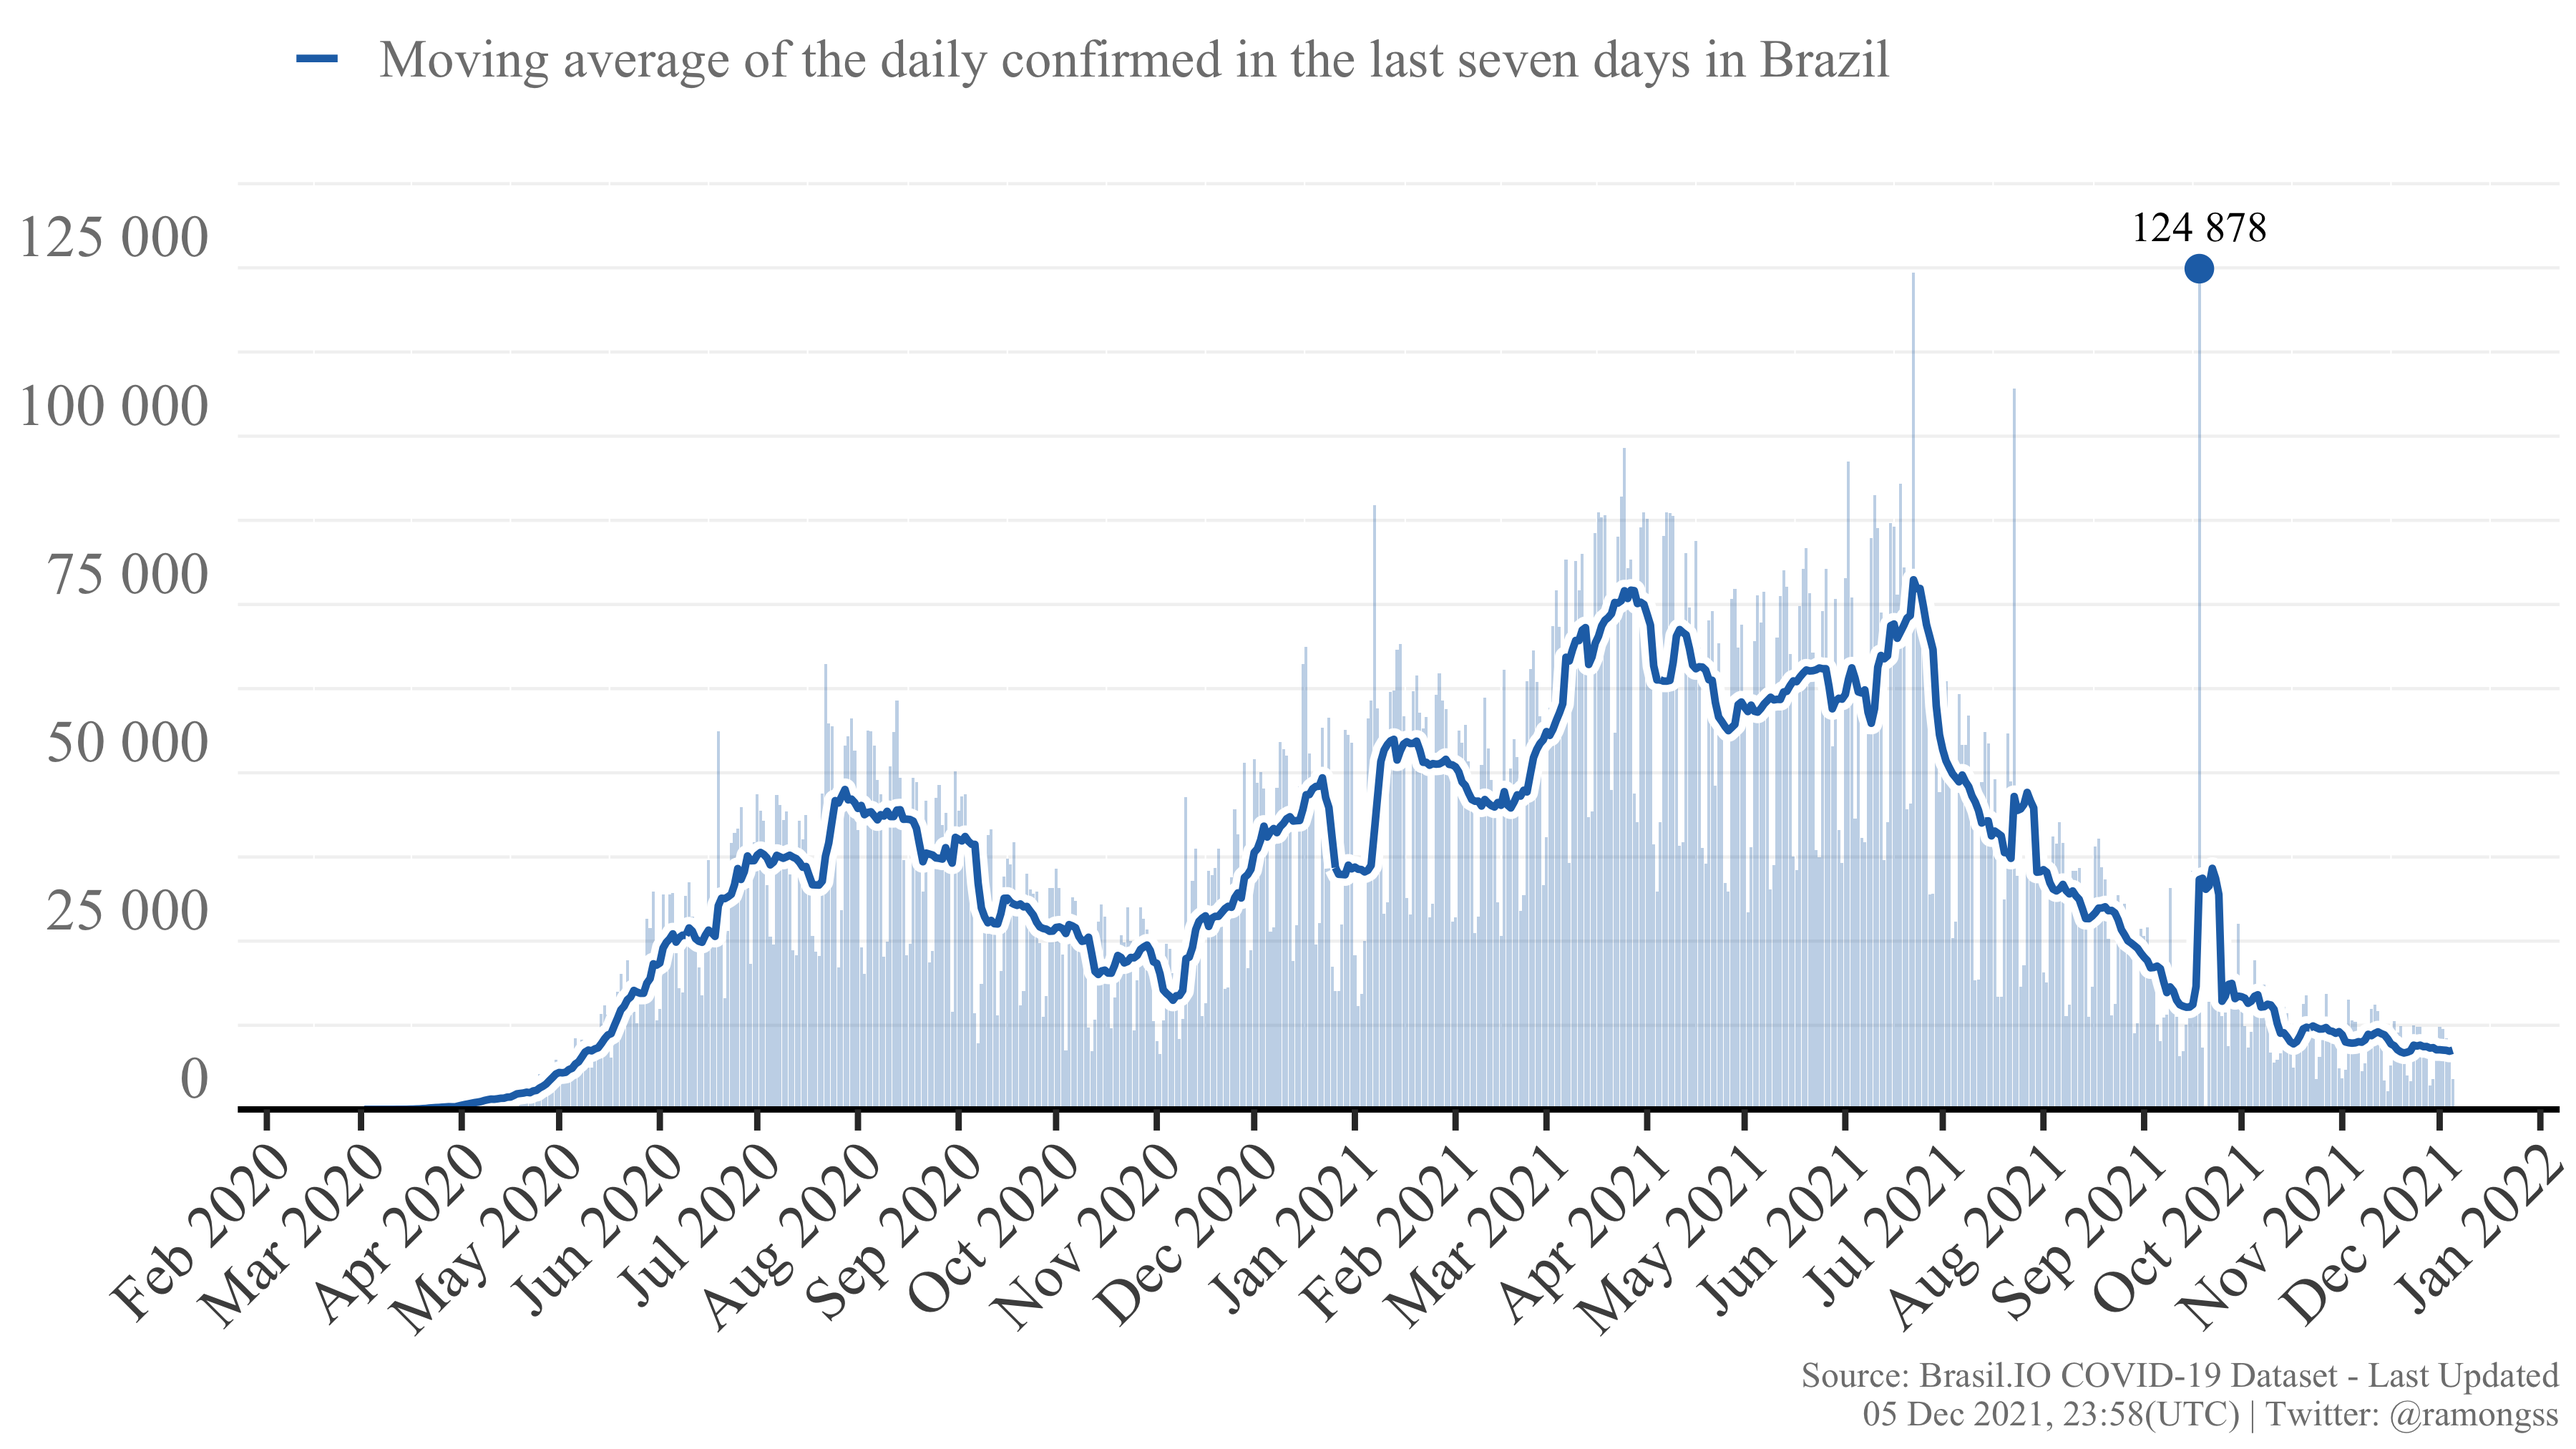
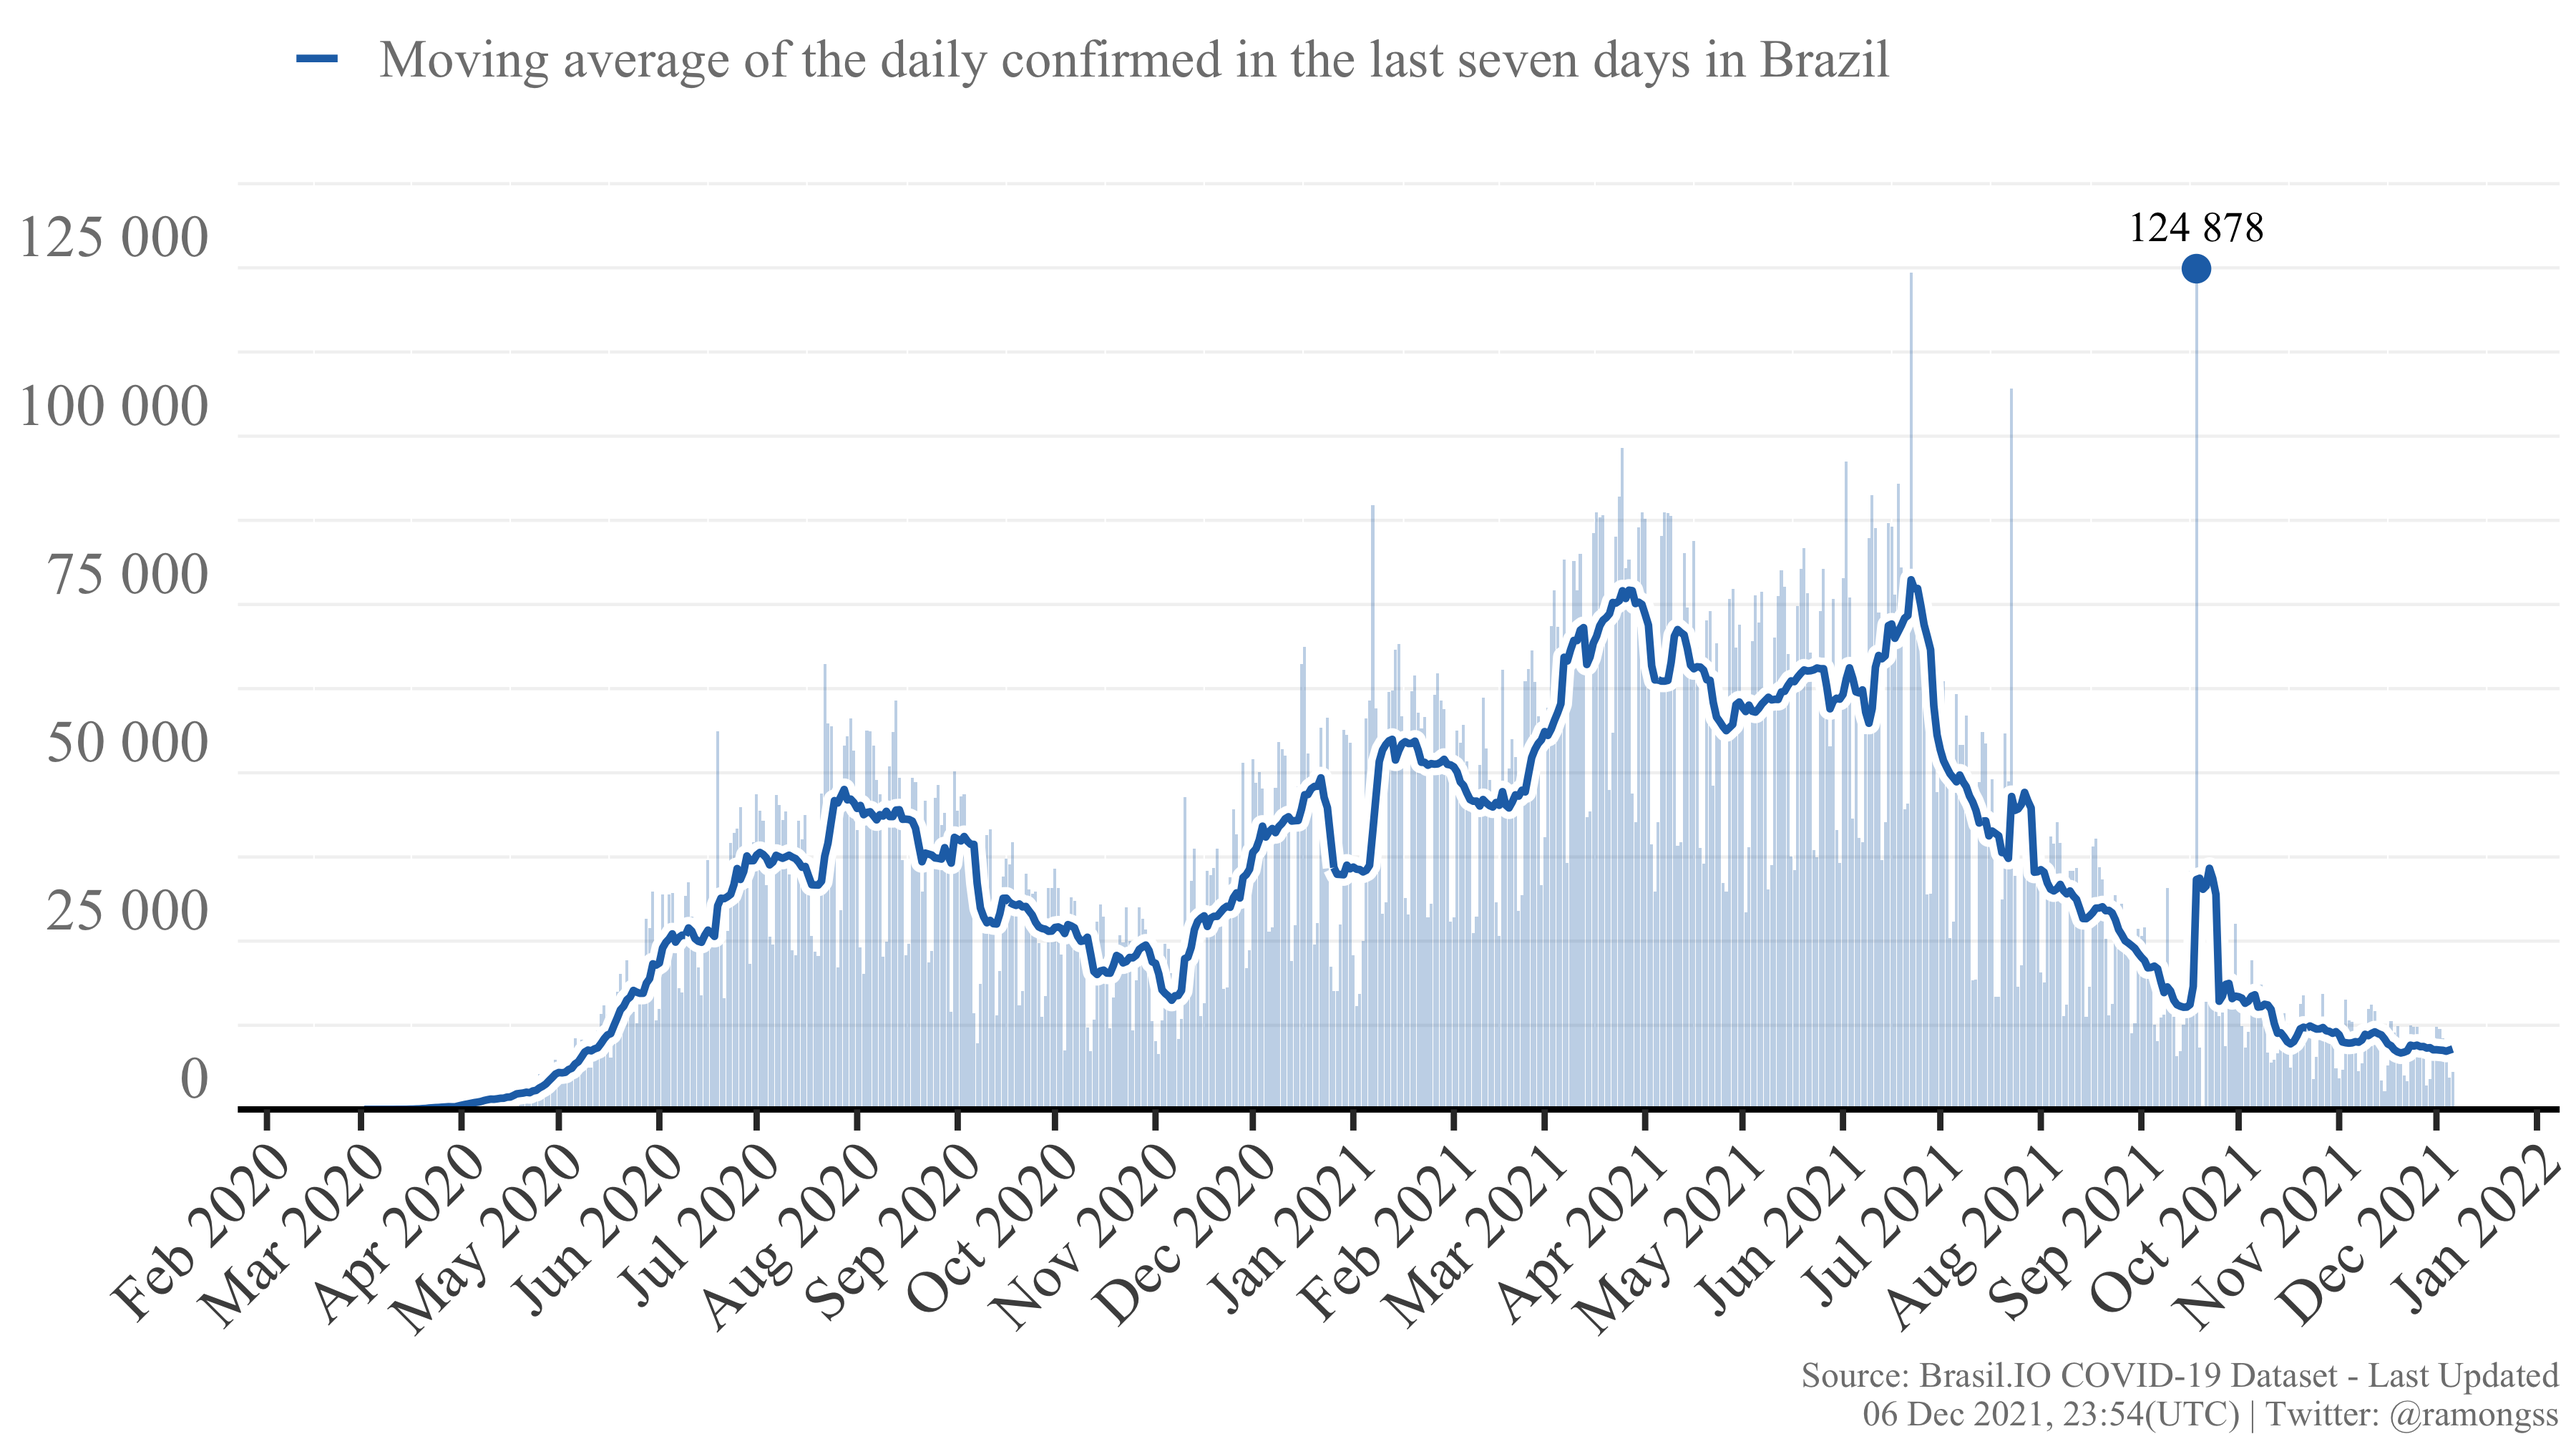
Re-build README.Rmd

diff --git a/README.md b/README.md
@@ -27,8 +27,8 @@ download_brasilio_table <- function(dataset = "covid19", table_name){
 
 ## COVID-19 Confirmed cases
 
-Currently, Brazil has a total of **22,146,938** confirmed cases at **05
-Dec, 2021**, with **4,553** new confirmed cases. The daily maximum
+Currently, Brazil has a total of **22,152,695** confirmed cases at **06
+Dec, 2021**, with **5,617** new confirmed cases. The daily maximum
 incidence was **124,878** confirmed cases at **18 Sep, 2021**. Here
 follows the Figure showing the confirmed case incidence as the bars, and
 the line as the moving average of the last 7 days.
@@ -37,11 +37,11 @@ the line as the moving average of the last 7 days.
 
 ## COVID-19 Deaths
 
-Currently, Brazil has a total of **615,897** deaths at **05 Dec, 2021**,
-with **68** new deaths. The daily maximum deaths incidence was **4,148**
-deaths at **08 Apr, 2021**. Here follows the Figure showing the deaths
-incidence as the bars, and the line as the moving average of the last 7
-days.
+Currently, Brazil has a total of **616,018** deaths at **06 Dec, 2021**,
+with **118** new deaths. The daily maximum deaths incidence was
+**4,148** deaths at **08 Apr, 2021**. Here follows the Figure showing
+the deaths incidence as the bars, and the line as the moving average of
+the last 7 days.
 
 ![COVID-19 Deaths](figures/deaths.png)
 
@@ -49,4 +49,4 @@ days.
 
 This page is daily updated automatically using Github Actions.
 
-*Last update: 05 Dec 2021, 23:58 (UTC).*
+*Last update: 06 Dec 2021, 23:54 (UTC).*
